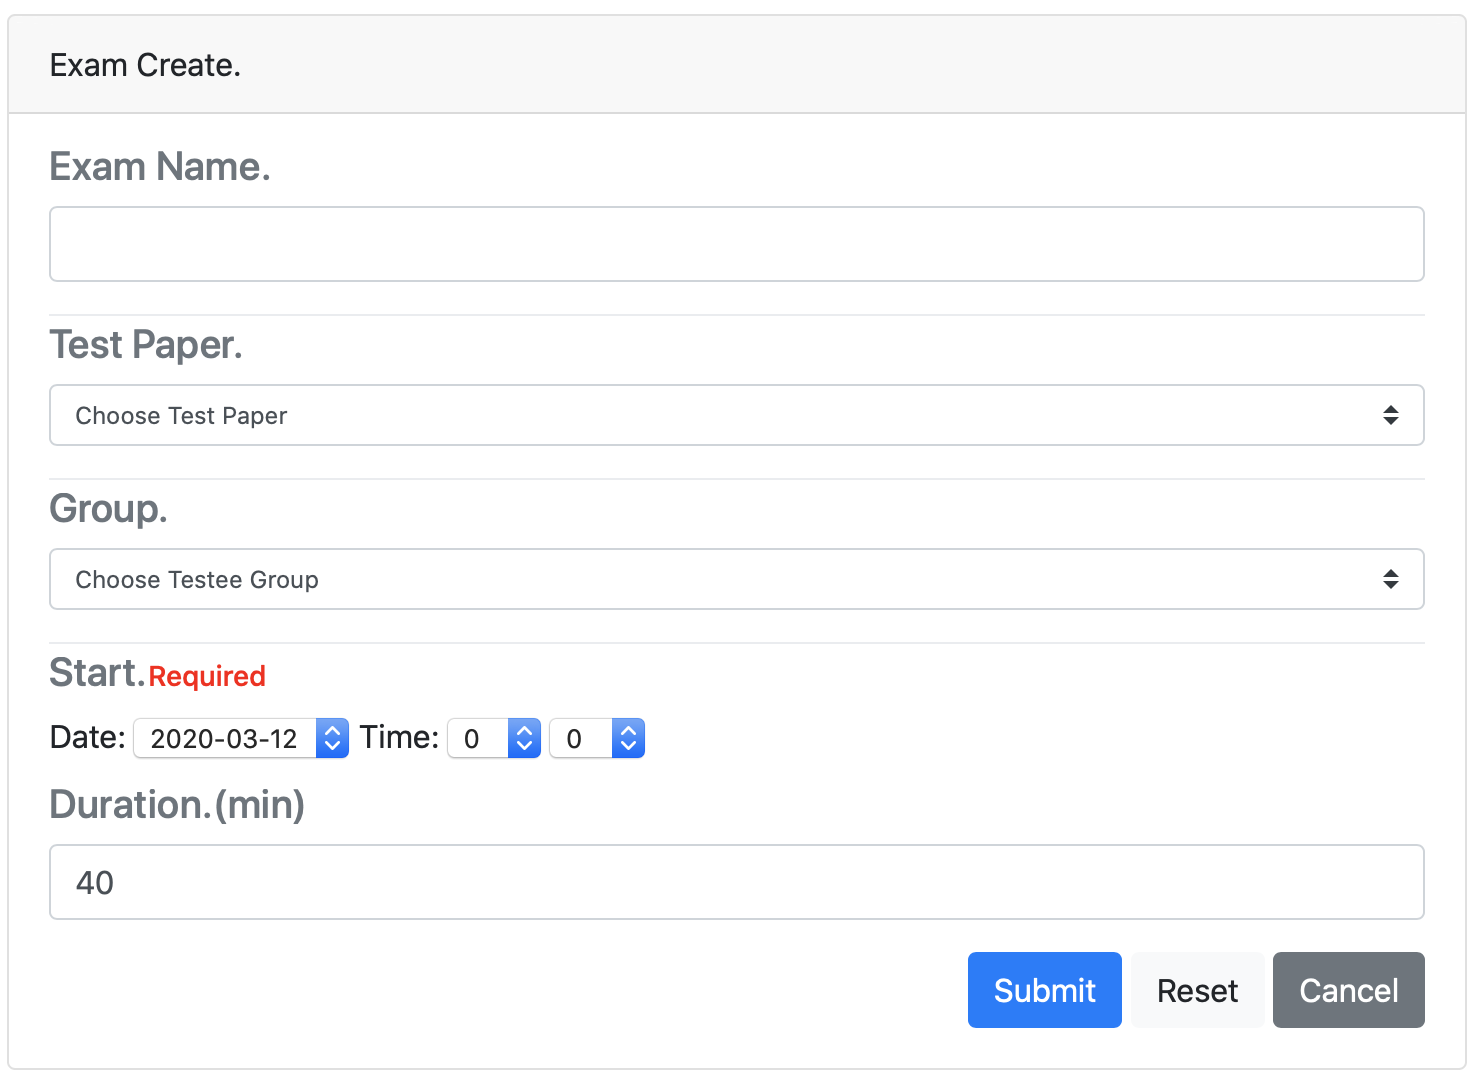
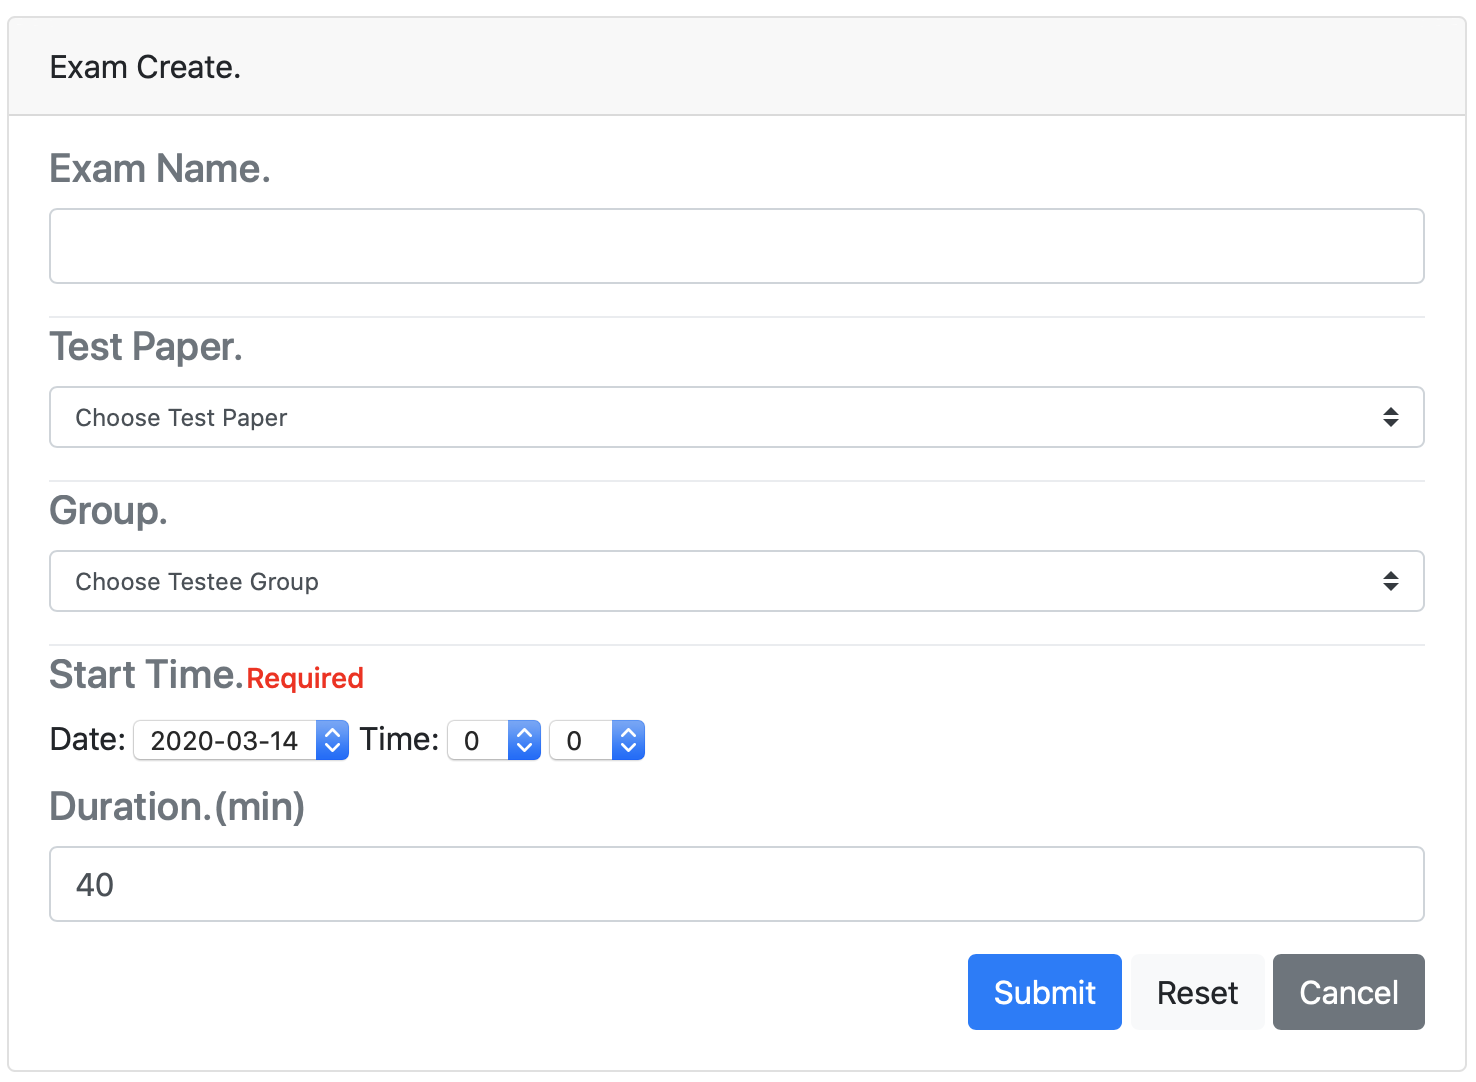
The operation manual, Test Manager, has finished.

diff --git a/templates/SystemDocument/OperationManual/OM_TestManager.html b/templates/SystemDocument/OperationManual/OM_TestManager.html
@@ -68,11 +68,13 @@
                         </ul>
                     </p>
 
-                    <!--編輯測驗尚未完成-->
                     <h4>編輯測驗</h4>
+                    <img src="{% static '/images/om/om-tm14.png' %}" width="50%">
                     <p>
                         <ul>
-                            <li style="color: red">尚未完成</li>
+                            <li>可更改「Exam Name.」、「Test Paper.」、「Group.」、「Start.」、「Duration.(min)」</li>
+                            <li>更改「Group.」（受測者群組）會將該群組內的受測者加入該測驗的受測者名單；若無選擇則不更改受測者名單。</li>
+                            <li style="color: red">若該測驗的「Start Time.」已超過當下時間，則無法進行編輯。</li>
                         </ul>
                     </p>
 

diff --git a/templates/exam/exam_list.html b/templates/exam/exam_list.html
@@ -15,8 +15,8 @@
                         <thead class="thead-light">
                             <tr>
                                 <th class="text-center">Exam Name.</th>
-                                <th class="text-center">Start.</th>
-                                <th class="text-center">Finish.</th>
+                                <th class="text-center">Start Time.</th>
+                                <th class="text-center">Finish Time.</th>
                                 <th class="text-center">Duration.(min)</th>
                                 <th class="text-center">Creator.</th>
                                 <th>

diff --git a/templates/exam/exam_create.html b/templates/exam/exam_create.html
@@ -164,7 +164,7 @@
                                 <div class="dropdown-divider"></div>
 
                                 <h5 class="card-subtitle mb-2 text-muted">
-                                    Start.<span id="time_invalid" class="time_invalid" style='color: red; font-size: 14px'>Required</span>
+                                    Start Time.<span id="time_invalid" class="time_invalid" style='color: red; font-size: 14px'>Required</span>
                                 </h5>
                                 <p class="card-text">
                                     Date:

diff --git a/templates/exam/exam_edit.html b/templates/exam/exam_edit.html
@@ -164,7 +164,7 @@
                                 <div class="dropdown-divider"></div>
 
                                 <h5 class="card-subtitle mb-2 text-muted">
-                                    Start.<span id="time_invalid" class="time_invalid" style='color: red; font-size: 14px'>Required</span>
+                                    Start Time.
                                 </h5>
                                 <p class="card-text">
                                     Date:
